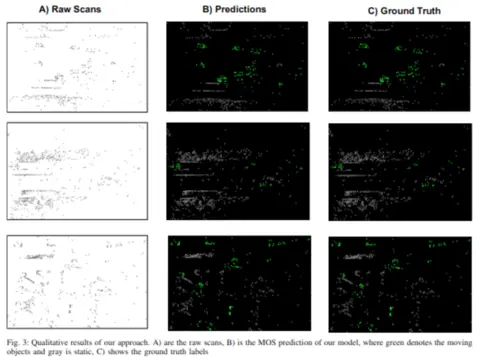
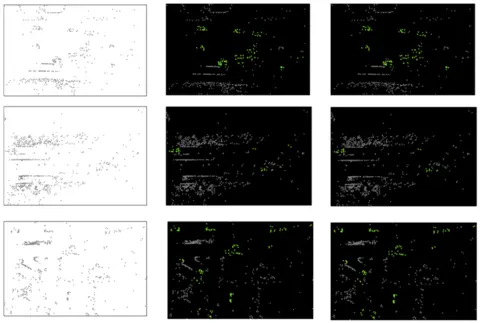
Deploying to gh-pages from @ vardeep-sandhu/vardeep-sandhu.github.io@1297c503ace7c517626b94bba5f89eb96d351940 🚀

diff --git a/archive/posts/2021-07-04-diagrams.html b/archive/posts/2021-07-04-diagrams.html
@@ -154,8 +154,8 @@ sequenceDiagram
 </code></pre></div></div>
 
 <div class="jekyll-diagrams diagrams mermaid">
-  <svg id="mermaid-1700576954343" width="100%" xmlns="http://www.w3.org/2000/svg" height="100%" style="max-width:450px;" viewbox="-50 -10 450 231"><style>#mermaid-1700576954343 .label{font-family:trebuchet ms,verdana,arial;color:#333}#mermaid-1700576954343 .node circle,#mermaid-1700576954343 .node ellipse,#mermaid-1700576954343 .node polygon,#mermaid-1700576954343 .node rect{fill:#ececff;stroke:#9370db;stroke-width:1px}#mermaid-1700576954343 .node.clickable{cursor:pointer}#mermaid-1700576954343 .arrowheadPath{fill:#333}#mermaid-1700576954343 .edgePath .path{stroke:#333;stroke-width:1.5px}#mermaid-1700576954343 .edgeLabel{background-color:#e8e8e8}#mermaid-1700576954343 .cluster rect{fill:#ffffde!important;stroke:#aa3!important;stroke-width:1px!important}#mermaid-1700576954343 .cluster text{fill:#333}#mermaid-1700576954343 div.mermaidTooltip{position:absolute;text-align:center;max-width:200px;padding:2px;font-family:trebuchet ms,verdana,arial;font-size:12px;background:#ffffde;border:1px solid #aa3;border-radius:2px;pointer-events:none;z-index:100}#mermaid-1700576954343 .actor{stroke:#ccf;fill:#ececff}#mermaid-1700576954343 text.actor{fill:#000;stroke:none}#mermaid-1700576954343 .actor-line{stroke:grey}#mermaid-1700576954343 .messageLine0{marker-end:"url(#arrowhead)"}#mermaid-1700576954343 .messageLine0,#mermaid-1700576954343 .messageLine1{stroke-width:1.5;stroke-dasharray:"2 2";stroke:#333}#mermaid-1700576954343 #arrowhead{fill:#333}#mermaid-1700576954343 #crosshead path{fill:#333!important;stroke:#333!important}#mermaid-1700576954343 .messageText{fill:#333;stroke:none}#mermaid-1700576954343 .labelBox{stroke:#ccf;fill:#ececff}#mermaid-1700576954343 .labelText,#mermaid-1700576954343 .loopText{fill:#000;stroke:none}#mermaid-1700576954343 .loopLine{stroke-width:2;stroke-dasharray:"2 2";marker-end:"url(#arrowhead)";stroke:#ccf}#mermaid-1700576954343 .note{stroke:#aa3;fill:#fff5ad}#mermaid-1700576954343 .noteText{fill:#000;stroke:none;font-family:trebuchet ms,verdana,arial;font-size:14px}#mermaid-1700576954343 .section{stroke:none;opacity:.2}#mermaid-1700576954343 .section0{fill:rgba(102,102,255,.49)}#mermaid-1700576954343 .section2{fill:#fff400}#mermaid-1700576954343 .section1,#mermaid-1700576954343 .section3{fill:#fff;opacity:.2}#mermaid-1700576954343 .sectionTitle0,#mermaid-1700576954343 .sectionTitle1,#mermaid-1700576954343 .sectionTitle2,#mermaid-1700576954343 .sectionTitle3{fill:#333}#mermaid-1700576954343 .sectionTitle{text-anchor:start;font-size:11px;text-height:14px}#mermaid-1700576954343 .grid .tick{stroke:#d3d3d3;opacity:.3;shape-rendering:crispEdges}#mermaid-1700576954343 .grid path{stroke-width:0}#mermaid-1700576954343 .today{fill:none;stroke:red;stroke-width:2px}#mermaid-1700576954343 .task{stroke-width:2}#mermaid-1700576954343 .taskText{text-anchor:middle;font-size:11px}#mermaid-1700576954343 .taskTextOutsideRight{fill:#000;text-anchor:start;font-size:11px}#mermaid-1700576954343 .taskTextOutsideLeft{fill:#000;text-anchor:end;font-size:11px}#mermaid-1700576954343 .taskText0,#mermaid-1700576954343 .taskText1,#mermaid-1700576954343 .taskText2,#mermaid-1700576954343 .taskText3{fill:#fff}#mermaid-1700576954343 .task0,#mermaid-1700576954343 .task1,#mermaid-1700576954343 .task2,#mermaid-1700576954343 .task3{fill:#8a90dd;stroke:#534fbc}#mermaid-1700576954343 .taskTextOutside0,#mermaid-1700576954343 .taskTextOutside1,#mermaid-1700576954343 .taskTextOutside2,#mermaid-1700576954343 .taskTextOutside3{fill:#000}#mermaid-1700576954343 .active0,#mermaid-1700576954343 .active1,#mermaid-1700576954343 .active2,#mermaid-1700576954343 .active3{fill:#bfc7ff;stroke:#534fbc}#mermaid-1700576954343 .activeText0,#mermaid-1700576954343 .activeText1,#mermaid-1700576954343 .activeText2,#mermaid-1700576954343 .activeText3{fill:#000!important}#mermaid-1700576954343 .done0,#mermaid-1700576954343 .done1,#mermaid-1700576954343 .done2,#mermaid-1700576954343 .done3{stroke:grey;fill:#d3d3d3;stroke-width:2}#mermaid-1700576954343 .doneText0,#mermaid-1700576954343 .doneText1,#mermaid-1700576954343 .doneText2,#mermaid-1700576954343 .doneText3{fill:#000!important}#mermaid-1700576954343 .crit0,#mermaid-1700576954343 .crit1,#mermaid-1700576954343 .crit2,#mermaid-1700576954343 .crit3{stroke:#f88;fill:red;stroke-width:2}#mermaid-1700576954343 .activeCrit0,#mermaid-1700576954343 .activeCrit1,#mermaid-1700576954343 .activeCrit2,#mermaid-1700576954343 .activeCrit3{stroke:#f88;fill:#bfc7ff;stroke-width:2}#mermaid-1700576954343 .doneCrit0,#mermaid-1700576954343 .doneCrit1,#mermaid-1700576954343 .doneCrit2,#mermaid-1700576954343 .doneCrit3{stroke:#f88;fill:#d3d3d3;stroke-width:2;cursor:pointer;shape-rendering:crispEdges}#mermaid-1700576954343 .activeCritText0,#mermaid-1700576954343 .activeCritText1,#mermaid-1700576954343 .activeCritText2,#mermaid-1700576954343 .activeCritText3,#mermaid-1700576954343 .doneCritText0,#mermaid-1700576954343 .doneCritText1,#mermaid-1700576954343 .doneCritText2,#mermaid-1700576954343 .doneCritText3{fill:#000!important}#mermaid-1700576954343 .titleText{text-anchor:middle;font-size:18px;fill:#000}#mermaid-1700576954343 g.classGroup text{fill:#9370db;stroke:none;font-family:trebuchet ms,verdana,arial;font-size:10px}#mermaid-1700576954343 g.classGroup rect{fill:#ececff;stroke:#9370db}#mermaid-1700576954343 g.classGroup line{stroke:#9370db;stroke-width:1}#mermaid-1700576954343 .classLabel .box{stroke:none;stroke-width:0;fill:#ececff;opacity:.5}#mermaid-1700576954343 .classLabel .label{fill:#9370db;font-size:10px}#mermaid-1700576954343 .relation{stroke:#9370db;stroke-width:1;fill:none}#mermaid-1700576954343 #compositionEnd,#mermaid-1700576954343 #compositionStart{fill:#9370db;stroke:#9370db;stroke-width:1}#mermaid-1700576954343 #aggregationEnd,#mermaid-1700576954343 #aggregationStart{fill:#ececff;stroke:#9370db;stroke-width:1}#mermaid-1700576954343 #dependencyEnd,#mermaid-1700576954343 #dependencyStart,#mermaid-1700576954343 #extensionEnd,#mermaid-1700576954343 #extensionStart{fill:#9370db;stroke:#9370db;stroke-width:1}#mermaid-1700576954343 .branch-label,#mermaid-1700576954343 .commit-id,#mermaid-1700576954343 .commit-msg{fill:#d3d3d3;color:#d3d3d3}</style>
-<style>#mermaid-1700576954343 {
+  <svg id="mermaid-1700582718789" width="100%" xmlns="http://www.w3.org/2000/svg" height="100%" style="max-width:450px;" viewbox="-50 -10 450 231"><style>#mermaid-1700582718789 .label{font-family:trebuchet ms,verdana,arial;color:#333}#mermaid-1700582718789 .node circle,#mermaid-1700582718789 .node ellipse,#mermaid-1700582718789 .node polygon,#mermaid-1700582718789 .node rect{fill:#ececff;stroke:#9370db;stroke-width:1px}#mermaid-1700582718789 .node.clickable{cursor:pointer}#mermaid-1700582718789 .arrowheadPath{fill:#333}#mermaid-1700582718789 .edgePath .path{stroke:#333;stroke-width:1.5px}#mermaid-1700582718789 .edgeLabel{background-color:#e8e8e8}#mermaid-1700582718789 .cluster rect{fill:#ffffde!important;stroke:#aa3!important;stroke-width:1px!important}#mermaid-1700582718789 .cluster text{fill:#333}#mermaid-1700582718789 div.mermaidTooltip{position:absolute;text-align:center;max-width:200px;padding:2px;font-family:trebuchet ms,verdana,arial;font-size:12px;background:#ffffde;border:1px solid #aa3;border-radius:2px;pointer-events:none;z-index:100}#mermaid-1700582718789 .actor{stroke:#ccf;fill:#ececff}#mermaid-1700582718789 text.actor{fill:#000;stroke:none}#mermaid-1700582718789 .actor-line{stroke:grey}#mermaid-1700582718789 .messageLine0{marker-end:"url(#arrowhead)"}#mermaid-1700582718789 .messageLine0,#mermaid-1700582718789 .messageLine1{stroke-width:1.5;stroke-dasharray:"2 2";stroke:#333}#mermaid-1700582718789 #arrowhead{fill:#333}#mermaid-1700582718789 #crosshead path{fill:#333!important;stroke:#333!important}#mermaid-1700582718789 .messageText{fill:#333;stroke:none}#mermaid-1700582718789 .labelBox{stroke:#ccf;fill:#ececff}#mermaid-1700582718789 .labelText,#mermaid-1700582718789 .loopText{fill:#000;stroke:none}#mermaid-1700582718789 .loopLine{stroke-width:2;stroke-dasharray:"2 2";marker-end:"url(#arrowhead)";stroke:#ccf}#mermaid-1700582718789 .note{stroke:#aa3;fill:#fff5ad}#mermaid-1700582718789 .noteText{fill:#000;stroke:none;font-family:trebuchet ms,verdana,arial;font-size:14px}#mermaid-1700582718789 .section{stroke:none;opacity:.2}#mermaid-1700582718789 .section0{fill:rgba(102,102,255,.49)}#mermaid-1700582718789 .section2{fill:#fff400}#mermaid-1700582718789 .section1,#mermaid-1700582718789 .section3{fill:#fff;opacity:.2}#mermaid-1700582718789 .sectionTitle0,#mermaid-1700582718789 .sectionTitle1,#mermaid-1700582718789 .sectionTitle2,#mermaid-1700582718789 .sectionTitle3{fill:#333}#mermaid-1700582718789 .sectionTitle{text-anchor:start;font-size:11px;text-height:14px}#mermaid-1700582718789 .grid .tick{stroke:#d3d3d3;opacity:.3;shape-rendering:crispEdges}#mermaid-1700582718789 .grid path{stroke-width:0}#mermaid-1700582718789 .today{fill:none;stroke:red;stroke-width:2px}#mermaid-1700582718789 .task{stroke-width:2}#mermaid-1700582718789 .taskText{text-anchor:middle;font-size:11px}#mermaid-1700582718789 .taskTextOutsideRight{fill:#000;text-anchor:start;font-size:11px}#mermaid-1700582718789 .taskTextOutsideLeft{fill:#000;text-anchor:end;font-size:11px}#mermaid-1700582718789 .taskText0,#mermaid-1700582718789 .taskText1,#mermaid-1700582718789 .taskText2,#mermaid-1700582718789 .taskText3{fill:#fff}#mermaid-1700582718789 .task0,#mermaid-1700582718789 .task1,#mermaid-1700582718789 .task2,#mermaid-1700582718789 .task3{fill:#8a90dd;stroke:#534fbc}#mermaid-1700582718789 .taskTextOutside0,#mermaid-1700582718789 .taskTextOutside1,#mermaid-1700582718789 .taskTextOutside2,#mermaid-1700582718789 .taskTextOutside3{fill:#000}#mermaid-1700582718789 .active0,#mermaid-1700582718789 .active1,#mermaid-1700582718789 .active2,#mermaid-1700582718789 .active3{fill:#bfc7ff;stroke:#534fbc}#mermaid-1700582718789 .activeText0,#mermaid-1700582718789 .activeText1,#mermaid-1700582718789 .activeText2,#mermaid-1700582718789 .activeText3{fill:#000!important}#mermaid-1700582718789 .done0,#mermaid-1700582718789 .done1,#mermaid-1700582718789 .done2,#mermaid-1700582718789 .done3{stroke:grey;fill:#d3d3d3;stroke-width:2}#mermaid-1700582718789 .doneText0,#mermaid-1700582718789 .doneText1,#mermaid-1700582718789 .doneText2,#mermaid-1700582718789 .doneText3{fill:#000!important}#mermaid-1700582718789 .crit0,#mermaid-1700582718789 .crit1,#mermaid-1700582718789 .crit2,#mermaid-1700582718789 .crit3{stroke:#f88;fill:red;stroke-width:2}#mermaid-1700582718789 .activeCrit0,#mermaid-1700582718789 .activeCrit1,#mermaid-1700582718789 .activeCrit2,#mermaid-1700582718789 .activeCrit3{stroke:#f88;fill:#bfc7ff;stroke-width:2}#mermaid-1700582718789 .doneCrit0,#mermaid-1700582718789 .doneCrit1,#mermaid-1700582718789 .doneCrit2,#mermaid-1700582718789 .doneCrit3{stroke:#f88;fill:#d3d3d3;stroke-width:2;cursor:pointer;shape-rendering:crispEdges}#mermaid-1700582718789 .activeCritText0,#mermaid-1700582718789 .activeCritText1,#mermaid-1700582718789 .activeCritText2,#mermaid-1700582718789 .activeCritText3,#mermaid-1700582718789 .doneCritText0,#mermaid-1700582718789 .doneCritText1,#mermaid-1700582718789 .doneCritText2,#mermaid-1700582718789 .doneCritText3{fill:#000!important}#mermaid-1700582718789 .titleText{text-anchor:middle;font-size:18px;fill:#000}#mermaid-1700582718789 g.classGroup text{fill:#9370db;stroke:none;font-family:trebuchet ms,verdana,arial;font-size:10px}#mermaid-1700582718789 g.classGroup rect{fill:#ececff;stroke:#9370db}#mermaid-1700582718789 g.classGroup line{stroke:#9370db;stroke-width:1}#mermaid-1700582718789 .classLabel .box{stroke:none;stroke-width:0;fill:#ececff;opacity:.5}#mermaid-1700582718789 .classLabel .label{fill:#9370db;font-size:10px}#mermaid-1700582718789 .relation{stroke:#9370db;stroke-width:1;fill:none}#mermaid-1700582718789 #compositionEnd,#mermaid-1700582718789 #compositionStart{fill:#9370db;stroke:#9370db;stroke-width:1}#mermaid-1700582718789 #aggregationEnd,#mermaid-1700582718789 #aggregationStart{fill:#ececff;stroke:#9370db;stroke-width:1}#mermaid-1700582718789 #dependencyEnd,#mermaid-1700582718789 #dependencyStart,#mermaid-1700582718789 #extensionEnd,#mermaid-1700582718789 #extensionStart{fill:#9370db;stroke:#9370db;stroke-width:1}#mermaid-1700582718789 .branch-label,#mermaid-1700582718789 .commit-id,#mermaid-1700582718789 .commit-msg{fill:#d3d3d3;color:#d3d3d3}</style>
+<style>#mermaid-1700582718789 {
     color: rgb(0, 0, 0);
     font: normal normal 400 normal 16px / normal "Times New Roman";
   }</style>

diff --git a/projects/3_project/index.html b/projects/3_project/index.html
@@ -123,82 +123,29 @@
           </header>
 
           <article>
-            <p>Project Overview:</p>
+            <p><b>Project Overview:</b></p>
 
 <p>In a rapidly evolving technological landscape, our company recognized the vital role of data in advancing the field of 3D object detection, particularly within the framework of our Operational Design Domain (ODD). The ODD, which defines the specific conditions under which autonomous systems operate, presented a unique set of challenges and requirements. Therefore, the data collection and annotation project was initiated with a dual purpose: to develop a comprehensive 3D LiDAR dataset tailored to our ODD and to create a foundation for training and fine-tuning advanced machine learning models capable of navigating and interacting within this specified domain.</p>
 
-<p>Significance of the Project:</p>
+<p><b>Significance of the Project:</b></p>
 
 <p>Tailored Data for Specific Environments: Our ODD encompasses a range of operating conditions, from urban environments with complex traffic scenarios to rural settings with varying terrain. Collecting 3D LiDAR data within this ODD ensured that the dataset was specifically suited to our operational requirements, making it more relevant and valuable for our autonomous systems.</p>
 
 <p>Addressing Real-World Challenges: The project addressed real-world challenges that our autonomous systems would encounter, such as diverse lighting conditions, traffic congestion, pedestrian behavior, and unpredictable weather patterns. The data collected reflected these challenges, providing a robust training ground for our AI algorithms.</p>
 
-<p>Data Collection Process:</p>
+<p><b>Data Collection Process:</b></p>
 
 <p>Data collection was a meticulous process, involving the deployment of LiDAR-equipped vehicles in various scenarios within the defined ODD. The LiDAR sensors emitted laser beams and recorded the reflections, creating high-resolution point clouds. These point clouds were then synchronized with other sensor data, such as GPS, IMU, and camera images, to provide a comprehensive view of the environment. The data collection process adhered to strict safety standards and privacy regulations to ensure the well-being of all stakeholders.</p>
 
-<p>Annotation and Data Enhancement:</p>
+<p><b>Annotation and Data Enhancement:</b></p>
 
 <p>Once the raw data was collected, the next phase involved extensive annotation. Skilled annotators meticulously labeled objects in the 3D point cloud, specifying their type, location, and dimensions. This annotation process created a ground truth dataset essential for training 3D object detection algorithms.</p>
 
-<p>Project Outcomes:</p>
+<p><b>Project Outcomes:</b></p>
 
 <p>The data collection and annotation project culminated in the creation of a bespoke 3D LiDAR dataset perfectly aligned with our ODD. This dataset serves as a foundational asset for the development, testing, and validation of our autonomous systems. It empowers our machine learning models to recognize and understand the intricate nuances of our operational environment, facilitating safer and more efficient autonomous operations.</p>
 
 <p>In conclusion, the data collection and annotation project within our ODD embodies our commitment to pioneering advancements in autonomous systems. By collecting, annotating, and leveraging 3D LiDAR data tailored to our specific operational domain, we have positioned ourselves at the forefront of technology, poised to meet the complex challenges of real-world applications while enhancing the safety and effectiveness of our autonomous solutions. This endeavor underscores our dedication to shaping the future of the autonomous industry.</p>
-
-<!-- 
-<div class="row justify-content-sm-center">
-    <div class="col-sm-8 mt-3 mt-md-0">
-        <figure>
-
-  <picture>
-    
-    <source 
-        class="responsive-img-srcset"
-        media="(max-width: 480px)" 
-        srcset="/assets/img/mine/3d-obj-det-480.webp"
-      />
-    <source 
-        class="responsive-img-srcset"
-        media="(max-width: 800px)" 
-        srcset="/assets/img/mine/3d-obj-det-800.webp"
-      />
-    <source 
-        class="responsive-img-srcset"
-        media="(max-width: 1400px)" 
-        srcset="/assets/img/mine/3d-obj-det-1400.webp"
-      />
-    
-
-    <!-- Fallback to the original file -->
-<div class="language-plaintext highlighter-rouge"><div class="highlight"><pre class="highlight"><code>&lt;img 
-  src="/assets/img/mine/3d-obj-det.png"
-  class="img-fluid rounded z-depth-1"  
-  width="auto" 
-  height="auto" 
-   
-   
-   
-   
-   
-  title="General 3D object detection visualization" 
-  
-  onerror="this.onerror=null; $('.responsive-img-srcset').remove();"
-/&gt;
-</code></pre></div></div>
-
-<p>&lt;/picture&gt;</p>
-
-<p>&lt;/figure&gt;</p>
-
-<div class="language-plaintext highlighter-rouge"><div class="highlight"><pre class="highlight"><code>&lt;/div&gt;
-</code></pre></div></div>
-<p>&lt;/div&gt;</p>
-<div class="caption">
-
-</div>
-<p>–&gt;</p>
 
 
           </article>

diff --git a/projects/1_project/index.html b/projects/1_project/index.html
@@ -123,17 +123,18 @@
           </header>
 
           <article>
-            <p>Recognizing the static and dynamic elements in its surroundings is a crucial undertaking for an autonomous vehicle. Within the realm of Computer Vision, proficiently identifying moving objects within a scene assumes a momentous role. 
-This capability greatly contributes to various downstream applications, such as path planning, collision avoidance, scene flow estimation, and predicting future states of agents within the environment.</p>
+            <p>In this project, we were focusing on the problem of Moving Object Segmentation using RADAR sensor. Effectively solving MOS can assist in several downstream applications, such as path planning, collision avoidance, scene flow estimation, and predicting future states of agents within the environment.</p>
 
-<p>Despite possessing unique and valuable attributes, the RADAR sensor remains relatively underutilized in this field. It offers distinct advantages that other aforementioned sensors lack, including exceptional reliability in challenging weather conditions such as fog, rain, or snow, and a comparatively cost-effective nature. One noteworthy capability of RADARs is their ability to directly measure the radial velocity of objects within the field of view using the Doppler effect, making them a crucial and promising candidate for addressing this specific task.</p>
+<p>Researchers in the past have explored this task with cameras and LiDAR sensors. Surprisingly, the RADAR sensor hasn’t been widely used in this area, despite having distinctive and valuable features that the mentioned sensors lack. For instance, RADAR is reliable in challenging weather conditions like fog, rain, or snow, and it is comparatively cost-effective. Additionally, RADARs can naturally measure the radial velocity of objects in the field of view using the Doppler effect, making them a crucial choice for solving this task.</p>
 
-<p>In this work, we developed a Transformer based architecture to process the sequence of RADAR scans to segment the moving points.</p>
+<p>In this work, we use sequential RADAR scans to accomplish the task of moving object segmentation. We have proposed a feature encoding module that utilizes a sequence of N past scans and combines the feature information with the current scan using the attention mechanism to generate more informative features. These features are then passed to the adapted Stratified Transformer network to produce the segmentation results.</p>
 
-<p>The diagram below gives the Qualitative analysis of our approach.</p>
+<p>We utilize RadarScenes dataset to train and validate our proposed approach. The diagram below shows the Qualitative Analysis of our approach on the RadarScenes testset. It can be seen that the model is able to predict the moving points from the scene quite well.</p>
+
+<p>Furthermore, we saw a improvement from the previous baseline by ~12 absolute percentage points of the IoU of the moving class.</p>
 
 <div class="row justify-content-sm-center">
-    <div class="col-sm-8 mt-3 mt-md-0">
+    <div class="col-sm-20 mt-5 mt-md-0">
         <figure>
 
   <picture>
@@ -154,9 +155,10 @@ This capability greatly contributes to various downstream applications, such as 
 </div>
 <div class="caption">
     Qualitative results of our approach. A) are the raw scans, B) is the MOS prediction of our model, where green denotes the moving
-objects and gray is static, C) shows the ground truth labels.
+    objects and gray is static, C) shows the ground truth labels.
 </div>
 
+<p><span style="color: red;">Note: This project was developed with CARIAD SE.</span></p>
 
           </article>
 

diff --git a/publications/index.html b/publications/index.html
@@ -188,6 +188,68 @@
       </div>
 </li></ol>
 
+  <h2 class="year">2024</h2>
+  <ol class="bibliography"><li>
+<!-- _layouts/bib.html -->
+      <div class="row">
+        <div class="col-sm-2 abbr"><abbr class="badge">TRO</abbr></div>
+
+        <!-- Entry bib key -->
+        <div id="zeller2024tro" class="col-sm-8">
+        <!-- Title -->
+        <div class="title">Radar Instance Transformer: Reliable Moving Instance Segmentation in Sparse Radar Point Clouds</div>
+        <!-- Author -->
+        <div class="author">
+        
+
+        M. Zeller, V.S. Sandhu, B. Mersch, and
+          <span class="more-authors" title="click to view 3 more authors" onclick="
+                var element = $(this);
+                element.attr('title', '');
+                var more_authors_text = element.text() == '3 more authors' ? 'J. Behley, M. Heidingsfeld, C. Stachniss' : '3 more authors';
+                var cursorPosition = 0;
+                var textAdder = setInterval(function(){
+                  element.text(more_authors_text.substring(0, cursorPosition + 1));
+                  if (++cursorPosition == more_authors_text.length){
+                    clearInterval(textAdder);
+                  }
+              }, '10');
+              ">3 more authors</span>
+</div>
+
+        <!-- Journal/Book title and date -->
+        
+        
+        <div class="periodical">
+          <em></em> 2024
+        </div>
+        <div class="periodical">
+          
+        </div>
+
+          <!-- Links/Buttons -->
+          <div class="links">
+            <a class="bibtex btn btn-sm z-depth-0" role="button">Bib</a>
+          </div>
+          
+          <div class="badges">
+            <span class="altmetric-embed" data-hide-no-mentions="true" data-hide-less-than="15" data-badge-type="2" data-badge-popover="right"></span>
+              <span class="__dimensions_badge_embed__" data-pmid="" data-hide-zero-citations="true" data-style="small_rectangle" data-legend="hover-right" style="margin-bottom: 3px;"></span>
+          </div>
+
+          <!-- Hidden bibtex block -->
+          <div class="bibtex hidden">
+            <figure class="highlight"><pre><code class="language-bibtex" data-lang="bibtex"><span class="nc">@article</span><span class="p">{</span><span class="nl">zeller2024tro</span><span class="p">,</span>
+  <span class="na">title</span> <span class="p">=</span> <span class="s">{Radar Instance Transformer: Reliable Moving Instance Segmentation in Sparse Radar Point Clouds}</span><span class="p">,</span>
+  <span class="na">author</span> <span class="p">=</span> <span class="s">{Zeller, M. and Sandhu, V.S. and Mersch, B. and Behley, J. and Heidingsfeld, M. and Stachniss, C.}</span><span class="p">,</span>
+  <span class="na">booktitle</span> <span class="p">=</span> <span class="s">{ IEEE Transactions on Robotics (TRO),}</span><span class="p">,</span>
+  <span class="na">year</span> <span class="p">=</span> <span class="s">{2024}</span>
+<span class="p">}</span></code></pre></figure>
+          </div>
+        </div>
+      </div>
+</li></ol>
+
 
 </div>
 
